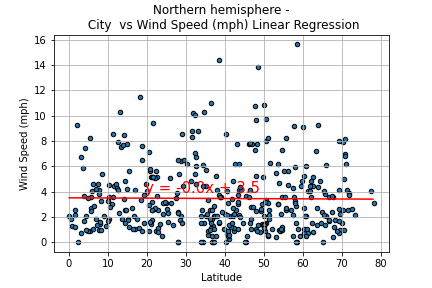
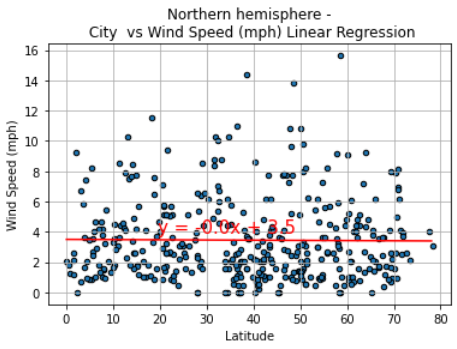
inverse border color

Changed region(s): [[0.0, 0.0, 0.9931, 1.0]]

diff --git a/README.md b/README.md
@@ -18,13 +18,9 @@ Python script has been created to visualize the weather of 500+ cities across th
 * Save a CSV of all retrieved data and a PNG image for each scatter plot.
 
 ### A series of scatter plots to showcase the following relationships:
-* Temperature (F) vs. Latitude 
 ![Temperature (F) vs. Latitude](WeatherPy\output_data\fig1.png)
-* Humidity (%) vs. Latitude
 ![Humidity (%) vs. Latitude](WeatherPy\output_data\fig2.png)
-* Cloudiness (%) vs. Latitude
 ![Cloudiness (%) vs. Latitude](WeatherPy\output_data\fig3.png)
-* Wind Speed (mph) vs. Latitude
 ![Wind Speed (mph) vs. Latitude](WeatherPy\output_data\fig4.png)
 
 ### Linear regression on each relationship:
@@ -92,7 +88,6 @@ The following was completed:
 
 * Using Google Places API to find the first hotel for each city located within 5000 meters of those coordinates.
 
-* Plot the hotels on top of the humidity heatmap with each pin containing the **Hotel Name**, **City**, and **Country**.
-
+Finally, the hotels are plotted on top of the humidity heatmap with each pin containing the **Hotel Name**, **City**, and **Country**:
 ![heatmap](VacationPy\output_data\211220_1430_ScreenshotHeatmapLocation_.png)
 
